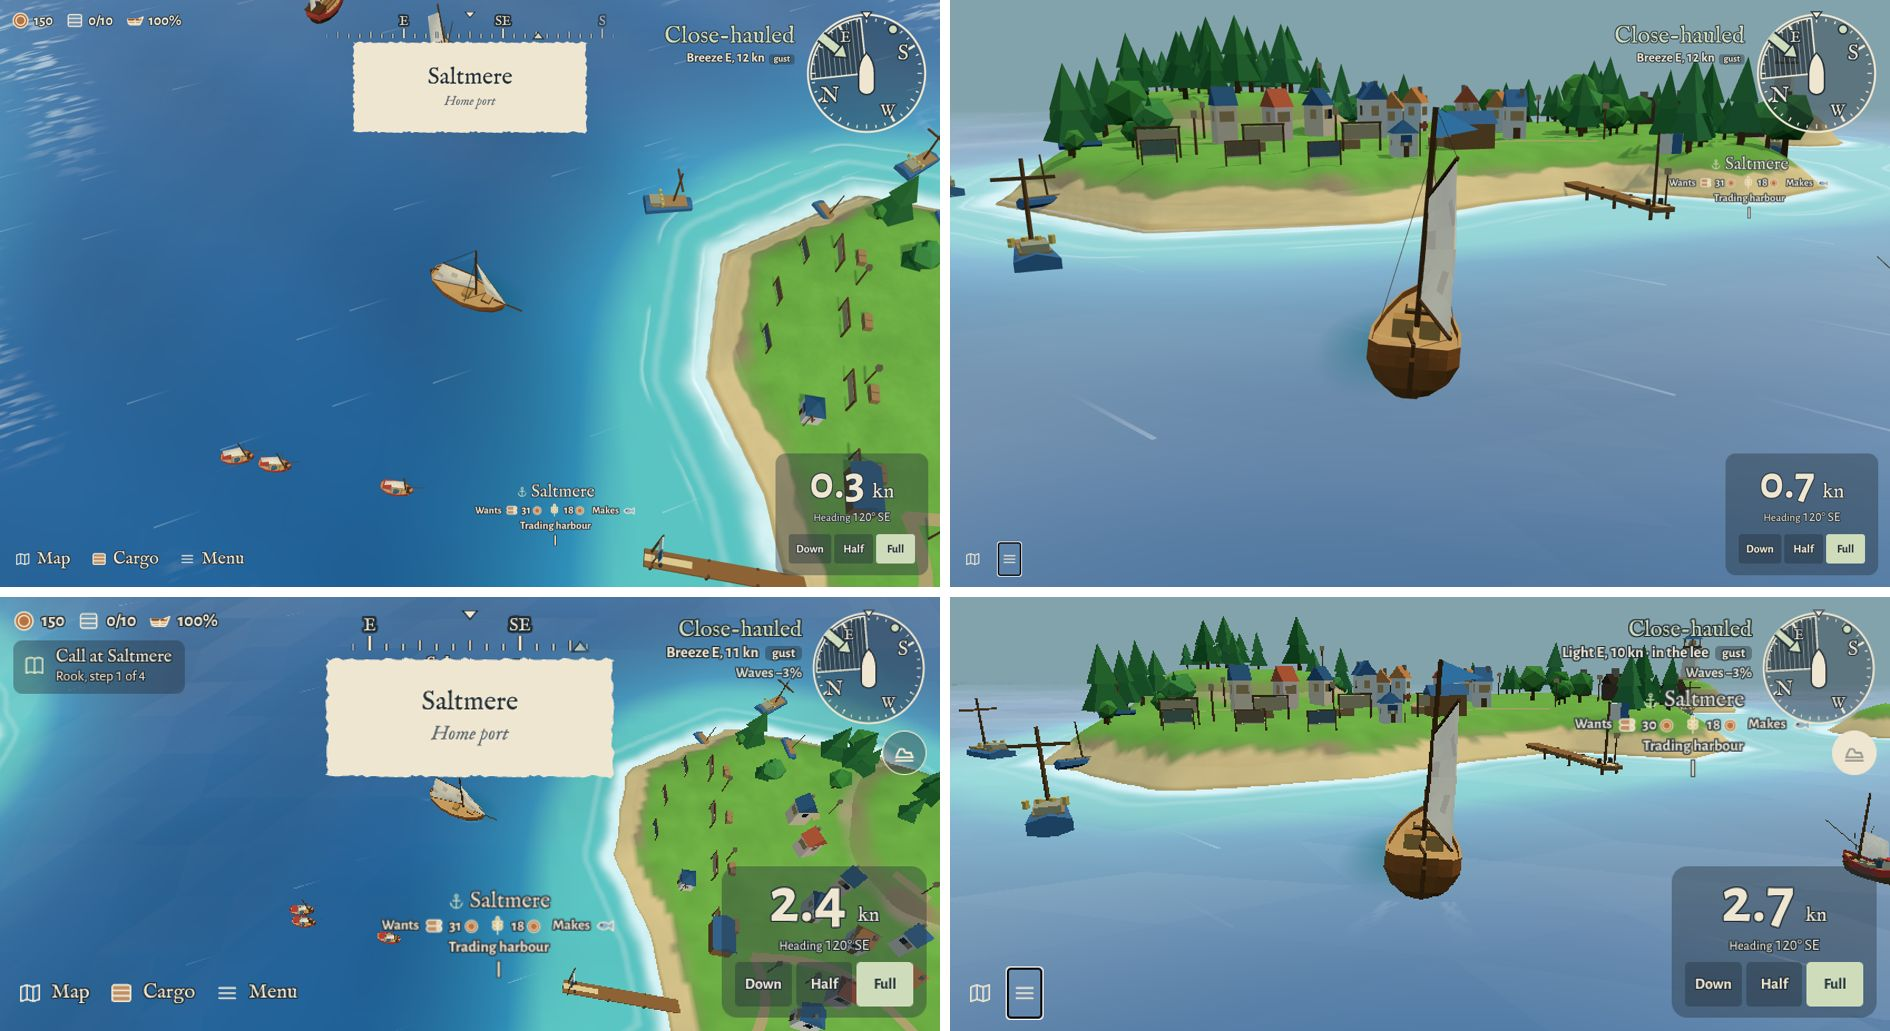
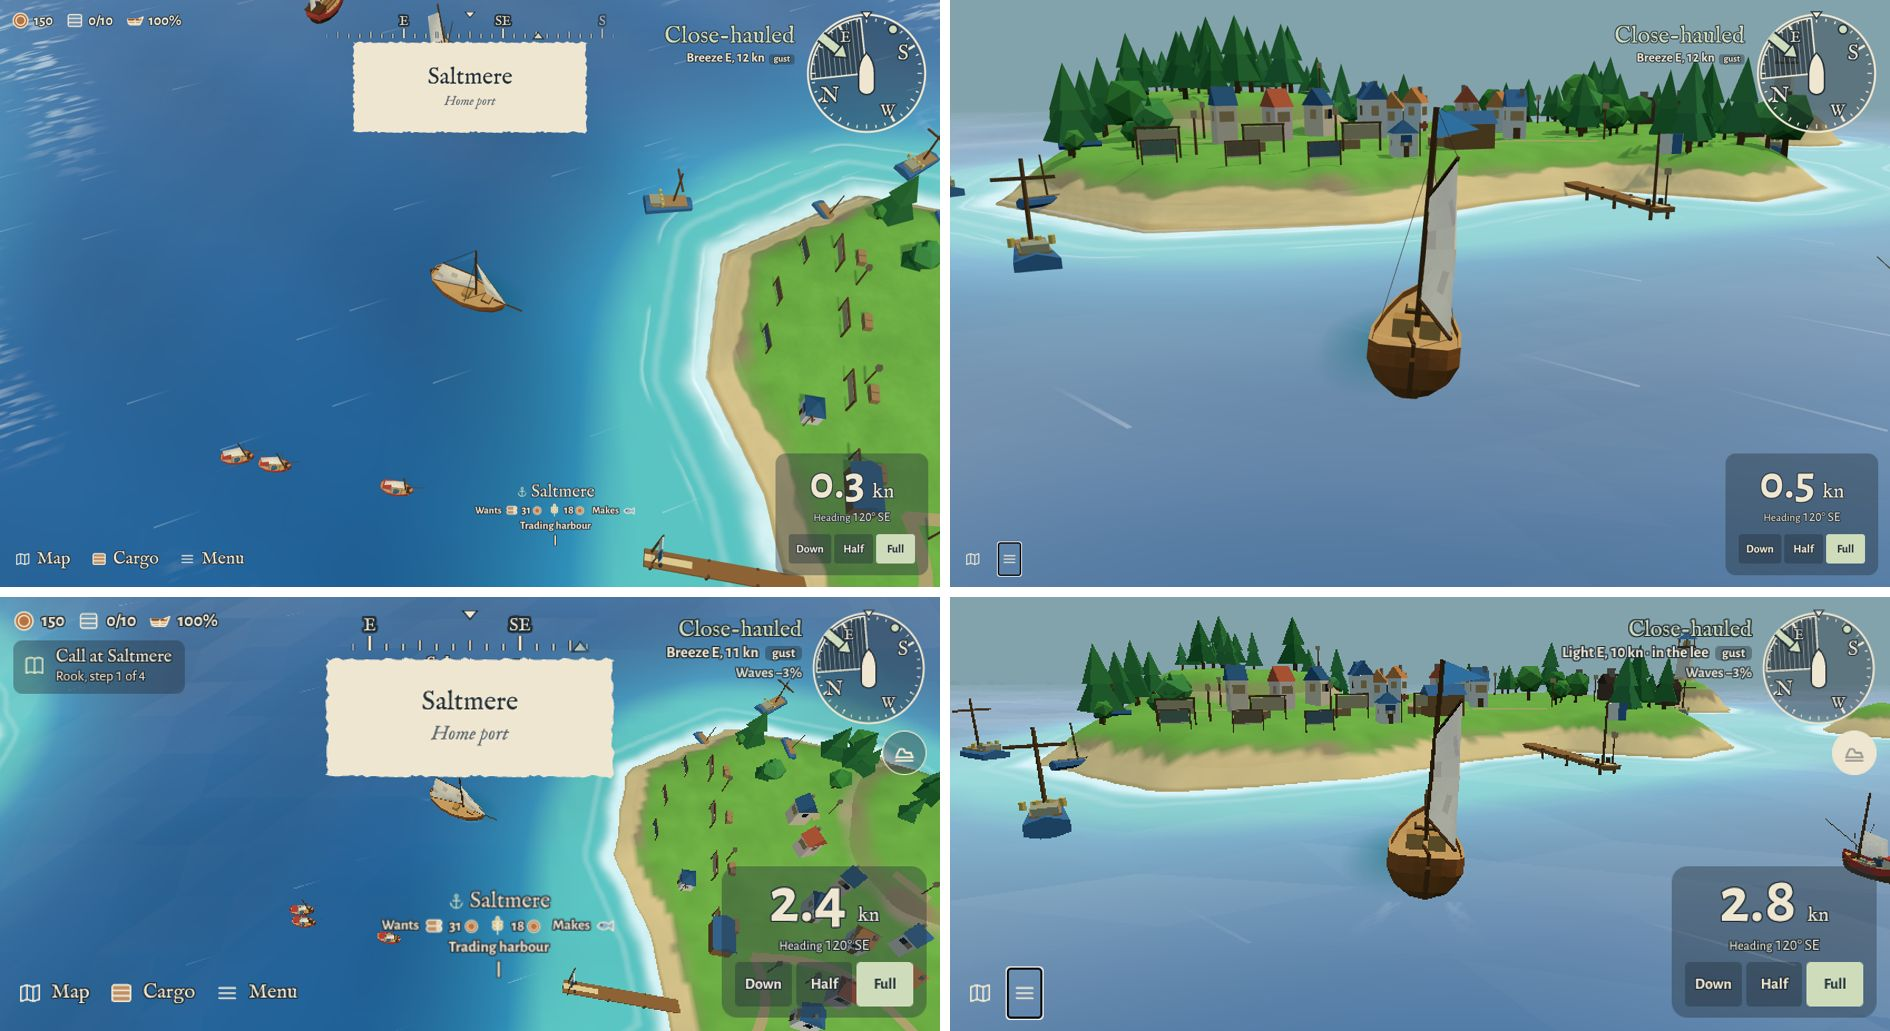
Chase view: port signs wait for the harbour and stay below the wind text (#432)

diff --git a/src/ui/portLabels.ts b/src/ui/portLabels.ts
@@ -138,6 +138,9 @@ export class PortLabels {
     return Boolean(entry && !entry.root.hidden && !entry.dock.hidden);
   }
 
+  /** The close chase view is on (decision 0272). */
+  chase = false;
+
   update(project: (x: number, y: number) => ScreenPoint, dt = 0.12, forceContent = false) {
     this.sinceContent += dt;
     const refreshContent = forceContent || this.sinceContent >= 0.12;
@@ -186,6 +189,11 @@ export class PortLabels {
       } else if (effectiveMode === 'all') {
         shouldShow = distToShore <= 160 || isDocked;
       }
+
+      // The close chase view looks low, so a far sign would float over the wind text: it waits
+      // until the harbour is near.
+      if (this.chase && !isDocked && distToShore > TUNING.hud.portSignChaseRange)
+        shouldShow = false;
 
       if (!shouldShow) {
         if (!entry.root.hidden) entry.root.hidden = true;
@@ -244,7 +252,12 @@ export class PortLabels {
         const edge = entry.halfWidth + SIGN_MARGIN;
         const x = Math.min(Math.max(s.x, edge), Math.max(edge, window.innerWidth - edge));
         // Composite the existing sign rather than repainting its shadow and SVGs as it moves.
-        const transform = `translate3d(${x.toFixed(2)}px, ${s.y.toFixed(2)}px, 0) translate(-50%, -100%)`;
+        // The chase view looks low, so a pier sits near the horizon and its sign would land on the
+        // wind text: the sign is pinned below the top of the screen (`hud.json`).
+        const y = this.chase
+          ? Math.max(s.y, window.innerHeight * TUNING.hud.portSignChaseMinY)
+          : s.y;
+        const transform = `translate3d(${x.toFixed(2)}px, ${y.toFixed(2)}px, 0) translate(-50%, -100%)`;
         if (entry.root.style.transform !== transform) entry.root.style.transform = transform;
       } else {
         // Hide off-screen markers to avoid screen edge clutter

diff --git a/src/data/tuning-meta-hud.ts b/src/data/tuning-meta-hud.ts
@@ -59,4 +59,20 @@ export const HUD_META: Readonly<Record<string, TuningMeta>> = {
     'm',
     'Port signs stand this far out from the pier, away from the island, so they sit over water.',
   ),
+  'hud.portSignChaseRange': num(
+    'Port sign range, chase view',
+    10,
+    160,
+    1,
+    'm',
+    'In the close chase view a port sign shows only this close to the harbour (or when moored).',
+  ),
+  'hud.portSignChaseMinY': num(
+    'Port sign lowest foot, chase view',
+    0,
+    1,
+    0.01,
+    '× screen height',
+    'In the close chase view a port sign stands no higher on screen than this, clear of the wind text.',
+  ),
 };

diff --git a/src/ui/cameraControls.ts b/src/ui/cameraControls.ts
@@ -83,6 +83,7 @@ export class CameraControls {
   update() {
     this.compass.update(this.orbit.turned && !this.chase.active);
     this.compass.setChase(this.chase.active);
+    this.hud.portLabels.chase = this.chase.active;
     // The close view shows the boat and the sea, so the HUD keeps to the wind compass and speed.
     const quiet = this.settings.quietHud || this.chase.blend > 0.5;
     if (quiet === this.quiet) return;
